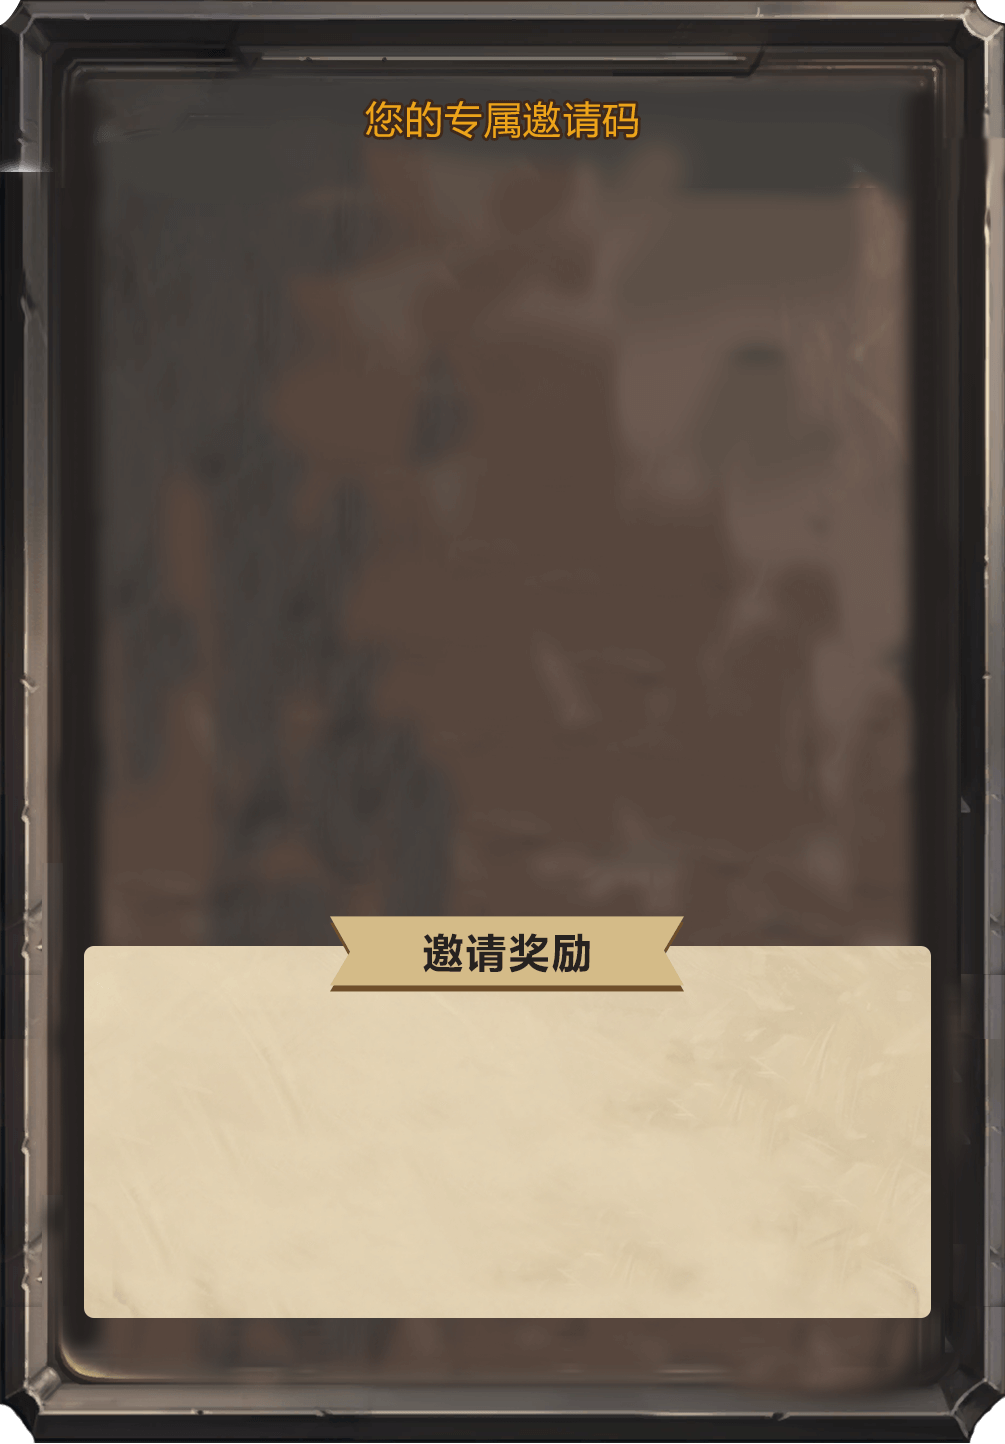
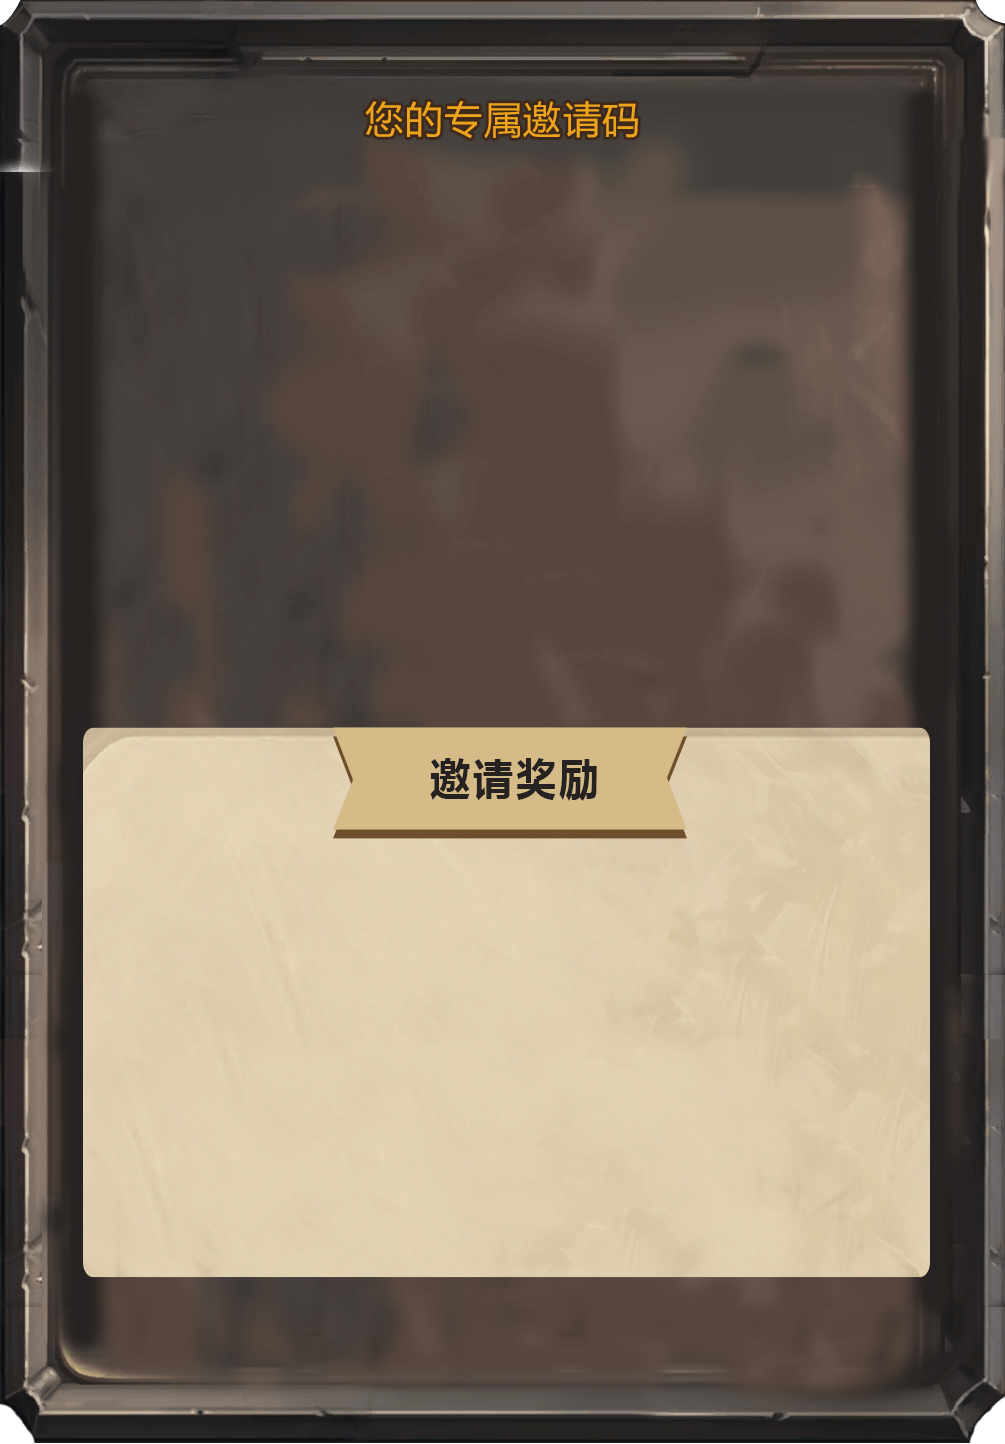
76453

Changed region(s): [[0.0617, 0.4986, 0.9254, 0.6856], [0.0617, 0.8726, 0.9254, 0.9349]]

diff --git a/src/components/center_invit.vue b/src/components/center_invit.vue
@@ -1,42 +1,20 @@
 <template>
 	<div class="center-invit">
-    <div class="m-yqm">7KVBS</div>
-    <div class="m-copybtn"><img src="../assets/images/img-copybtn.png" /></div>
+    <div class="m-yqm">{{yqm}}</div>
     <div class="m-textbox01">您可以复制您的专属广告语，将文档黏贴并发送给您的好友</div>
-    <div class="m-textbox02"><span>无尽世界http://www.endw.org/</span>基于阿希链接的去中心化自治游戏平台，打造资产，数据上链游戏生态，现诚邀您体验无尽世界首页区块链游戏《卟星师》。填写邀请码7KVBS进行注册，“复制邀请码，加群联系管理员，激活珍贵限量权限帐号，群：193244055”</div>
-    <div class="m-yqtxt">每成功邀请1位激活用户将获得100ENS！</div>
+    <div class="m-textbox02">无尽世界是基于阿希链的去中心化自治游戏平台，打造资产，数据上链游戏生态，现诚邀您体验无尽世界首款区块链游戏《卟星师》，下载链接：http://fir.im/7mkx填写邀请码"{{yqm}}"进行注册，QQ交流群：193244055</div>
+    <div class="m-copybtn btn" :data-clipboard-text="yqm"><img src="../assets/images/img-copybtn.png" /></div>
+    <div class="m-yqtxt">每成功邀请1位用户将额外获得被邀请用户每日所得10%ENS</div>
     <div class="m-yqlistbox">
       <div class="m-list">
-        <div class="m-left">SAFSDDFSVXVFDDFFDSFS</div>
-        <div class="m-right">ENS+100</div>
+        <div class="m-left">被邀请账户</div>
+        <div class="m-right">昨日总收益：{{allEns}}</div>
       </div>
-      <div class="m-list">
-        <div class="m-left">SAFSDDFSVXVFDDFFDSFS</div>
-        <div class="m-right">ENS+100</div>
-      </div>
-      <div class="m-list">
-        <div class="m-left">SAFSDDFSVXVFDDFFDSFS</div>
-        <div class="m-right">ENS+100</div>
-      </div>
-      <div class="m-list">
-        <div class="m-left">SAFSDDFSVXVFDDFFDSFS</div>
-        <div class="m-right">ENS+100</div>
-      </div>
-      <div class="m-list">
-        <div class="m-left">SAFSDDFSVXVFDDFFDSFS</div>
-        <div class="m-right">ENS+100</div>
-      </div>
-      <div class="m-list">
-        <div class="m-left">SAFSDDFSVXVFDDFFDSFS</div>
-        <div class="m-right">ENS+100</div>
-      </div>
-      <div class="m-list">
-        <div class="m-left">SAFSDDFSVXVFDDFFDSFS</div>
-        <div class="m-right">ENS+100</div>
-      </div>
-      <div class="m-list">
-        <div class="m-left">SAFSDDFSVXVFDDFFDSFS</div>
-        <div class="m-right">ENS+100</div>
+    </div>
+    <div class="m-yqlistbox01">
+      <div class="m-list" v-for="item in yqList">
+        <div class="m-left">{{item.nickname}}</div>
+        <div class="m-right">{{item.coin}}</div>
       </div>
     </div>
   </div>
@@ -48,12 +26,71 @@ export default {
 	    data() {
       return {
         tcinShow: false,
+        yqm:'',
+        yqList:'',
+        allEns:'0',
       }
     },
     methods: {
       openIn() {
         this.tcinShow = !this.tcinShow
       },
+      roleInit() {
+        var _this = this;
+        var params = {
+          address: sessionStorage.getItem("address")
+        }
+        _this.$axios({
+          method: 'get',
+          url: _this.http184 + '/wb/role',
+          params: params,
+          	headers:{
+						"Authorization": "basic " + sessionStorage.getItem('logintoken')
+					}
+        }).then((res) => {
+          if(res.data.data == null){
+            _this.yqm = '请先创建角色';
+          }else{
+            _this.yqm = res.data.data.invate;
+          }
+        }, (error) => {
+          console.log(error);
+        });
+      },
+      listInit() {
+        var _this = this;
+        var params = {
+          address: sessionStorage.getItem("address")
+        }
+        _this.$axios({
+          method: 'get',
+          url: _this.http184 + '/wb/invatelist',
+          params: params,
+          	headers:{
+						"Authorization": "basic " + sessionStorage.getItem('logintoken')
+					}
+        }).then((res) => {
+            console.log(123)
+            _this.yqList=res.data.data;
+            var num = 0;
+            for( let c = 0; c<_this.yqList.length;c++){
+              num = num+_this.yqList[c].coin*1
+            }
+            console.log(num)
+            _this.allEns = num;
+          
+        }, (error) => {
+          console.log(error);
+        });
+        
+      },
+    },
+        mounted() {
+      let _this = this;
+      _this.roleInit();
+      _this.listInit();
+      new ClipboardJS('.m-copybtn');
+
     }
 
 }
@@ -71,15 +108,15 @@ export default {
 
   .center-invit .m-yqm {
     width: 100%;
-    margin: 1.2rem auto 0;
+    margin: 1.6rem auto 0;
     display: inline-block;
-    font-size: 1.6rem;
+    font-size: 1rem;
     color: #c98a1a;
   }
   .center-invit .m-copybtn{
     width: 3.25rem;
     height: .8rem;
-    margin: 0 auto 0;
+    margin: .2rem auto 0;
     display: inline-block;
     vertical-align: top;
   }
@@ -89,19 +126,19 @@ export default {
     vertical-align: top;
   }
   .center-invit .m-textbox01{
-    width: 100%;display: inline-block;margin-top: -.2rem;padding: 0 1rem; color: #957959;vertical-align: top;box-sizing: border-box;font-size: .29rem;text-align: left;
+    width: 100%;display: inline-block;padding: 0 1rem; color: #957959;vertical-align: top;box-sizing: border-box;font-size: .29rem;text-align: left;
   }
   .center-invit .m-textbox02{
-    width: 100%;display: inline-block;margin-top: -.5rem;padding: 0 1rem; color: #ceb37d;vertical-align: top;box-sizing: border-box;font-size: .32rem;text-align: left;line-height: .5rem;
+    width: 100%;display: inline-block;padding: 0 1rem; color: #ceb37d;vertical-align: top;box-sizing: border-box;font-size: .32rem;text-align: left;line-height: .5rem;
   }
   .center-invit .m-textbox02 span{
       width: 100%; text-align: center;display: inline-block;
   }
   .center-invit .m-yqtxt{
-    width: 100%;display: inline-block;margin-top: 1.8rem;padding: 0 1rem; color: #f43800;vertical-align: top;box-sizing: border-box;font-size: .3rem;text-align: center;
+    width: 100%;display: inline-block;margin-top: 1.4rem;padding: 0 1rem; color: #f43800;vertical-align: top;box-sizing: border-box;font-size: .3rem;text-align: center;
   }
   .center-invit .m-yqlistbox{
-    width: 6.4rem;display: inline-block;margin: .2rem auto 0;max-height: 1.9rem; overflow-y: auto;overflow-x: hidden;vertical-align: top;
+    width: 6.4rem;display: inline-block;margin: .2rem auto 0;vertical-align: top;
   }
   .center-invit .m-yqlistbox .m-list{
     width: 100%;display: inline-block; line-height:.38rem;height: .38rem;vertical-align: top;float: left;
@@ -110,6 +147,18 @@ export default {
     width: auto;display: inline-block;float: left;max-width: 70%;overflow:hidden;font-size: .26rem;color: #1c212c; 
   }
   .center-invit .m-yqlistbox .m-list .m-right{
+    width: auto;display: inline-block;float: right;font-size: .26rem;color: #1c212c; 
+  }
+  .center-invit .m-yqlistbox01{
+    width: 6.4rem;display: inline-block;margin: -.6  rem auto 0;max-height: 1.5rem; overflow-y: auto;overflow-x: hidden;vertical-align: top;
+  }
+  .center-invit .m-yqlistbox01 .m-list{
+    width: 100%;display: inline-block; line-height:.38rem;height: .38rem;vertical-align: top;float: left;
+  }
+  .center-invit .m-yqlistbox01 .m-list .m-left{
+    width: auto;display: inline-block;float: left;max-width: 70%;overflow:hidden;font-size: .26rem;color: #1c212c; 
+  }
+  .center-invit .m-yqlistbox01 .m-list .m-right{
     width: auto;display: inline-block;float: right;font-size: .26rem;color: #1c212c; 
   }
 

diff --git a/src/components/center.vue b/src/components/center.vue
@@ -110,6 +110,9 @@
       },
       roleInit() {
         var _this = this;
+        if($.cookie("enscoin") < 200*1e8){
+          this.newrole = true;
+        }
         var params = {
           address: sessionStorage.getItem("address")
         }
@@ -197,14 +200,19 @@
             path: "/divine"
           })
         } else if (type == "invit") {
-            self.signData = "敬请期待";
+
+            if(self.part == true){
+              this.$router.push({
+                path: "/invit"
+              })
+            }else{
+            self.signData = "请先创建角色";
             self.sign = true;
             setTimeout(function () {
               self.sign = false;
             }, 2000)
-          // this.$router.push({
-          //   path: "/invit"
-          // })
+            }
+          
         }
       },
     },
@@ -215,9 +223,7 @@
       // if(this.balancesList == '' || this.balancesList[0].balance == '0'){
       //   this.role = true;
       // }
-      if($.cookie("enscoin") <= 200*1e8){
-        this.newrole = true;
-      }
+      
     }
 
   }

diff --git a/src/components/login.vue b/src/components/login.vue
@@ -7,7 +7,7 @@
       <img id="verifyCodeId" :src="src" class="m-codebtn" @click="recode()" />
       <p>
         <input type="checkbox" name="" id="" v-model="isCk" />
-        <span>记住账户</span>
+        <span>记住密码</span>
         <a @click="createSignature">注册</a>
       </p>
       <div class="box">
@@ -42,7 +42,7 @@
   export default {
     data() {
       return {
-        password: "",
+        password: $.cookie('password')||"",
         idkey: $.cookie('idkey')||"",
         code: "",
         secret: "",
@@ -171,8 +171,10 @@
         var _this = this;
         if (_this.isCk) {
           $.cookie("secret", _this.idkey);
+          $.cookie("password", _this.password);
         } else {
           $.cookie("secret", "");
+          $.cookie("password", "");
         }
 
         _this.$axios({

diff --git a/src/components/market.vue b/src/components/market.vue
@@ -466,14 +466,17 @@
 
   .market .list .box {
     width: 100%;
-    height: 2.6rem;
-    background: url("../assets/images/market_bg.png") repeat-y;
+    height: auto;
+    background: url("../assets/images/market_bg.png") no-repeat;
     background-size: 100%;
     position: relative;
 
   }
   .market .list .box:first-child{
     margin-top: 3rem;
+  }
+  .market .list .box:last-child .info{
+    margin-bottom: 3rem;
   }
 
   .market .list .box .info {

diff --git a/src/components/center_wall.vue b/src/components/center_wall.vue
@@ -247,6 +247,7 @@
                 balance: res.data.data.enscoin,
                 currency: "ENDLESS.ENS"
               }]
+              $.cookie('enscoin',res.data.data.enscoin)
         }, (error) => {
           console.log(error);
         });
